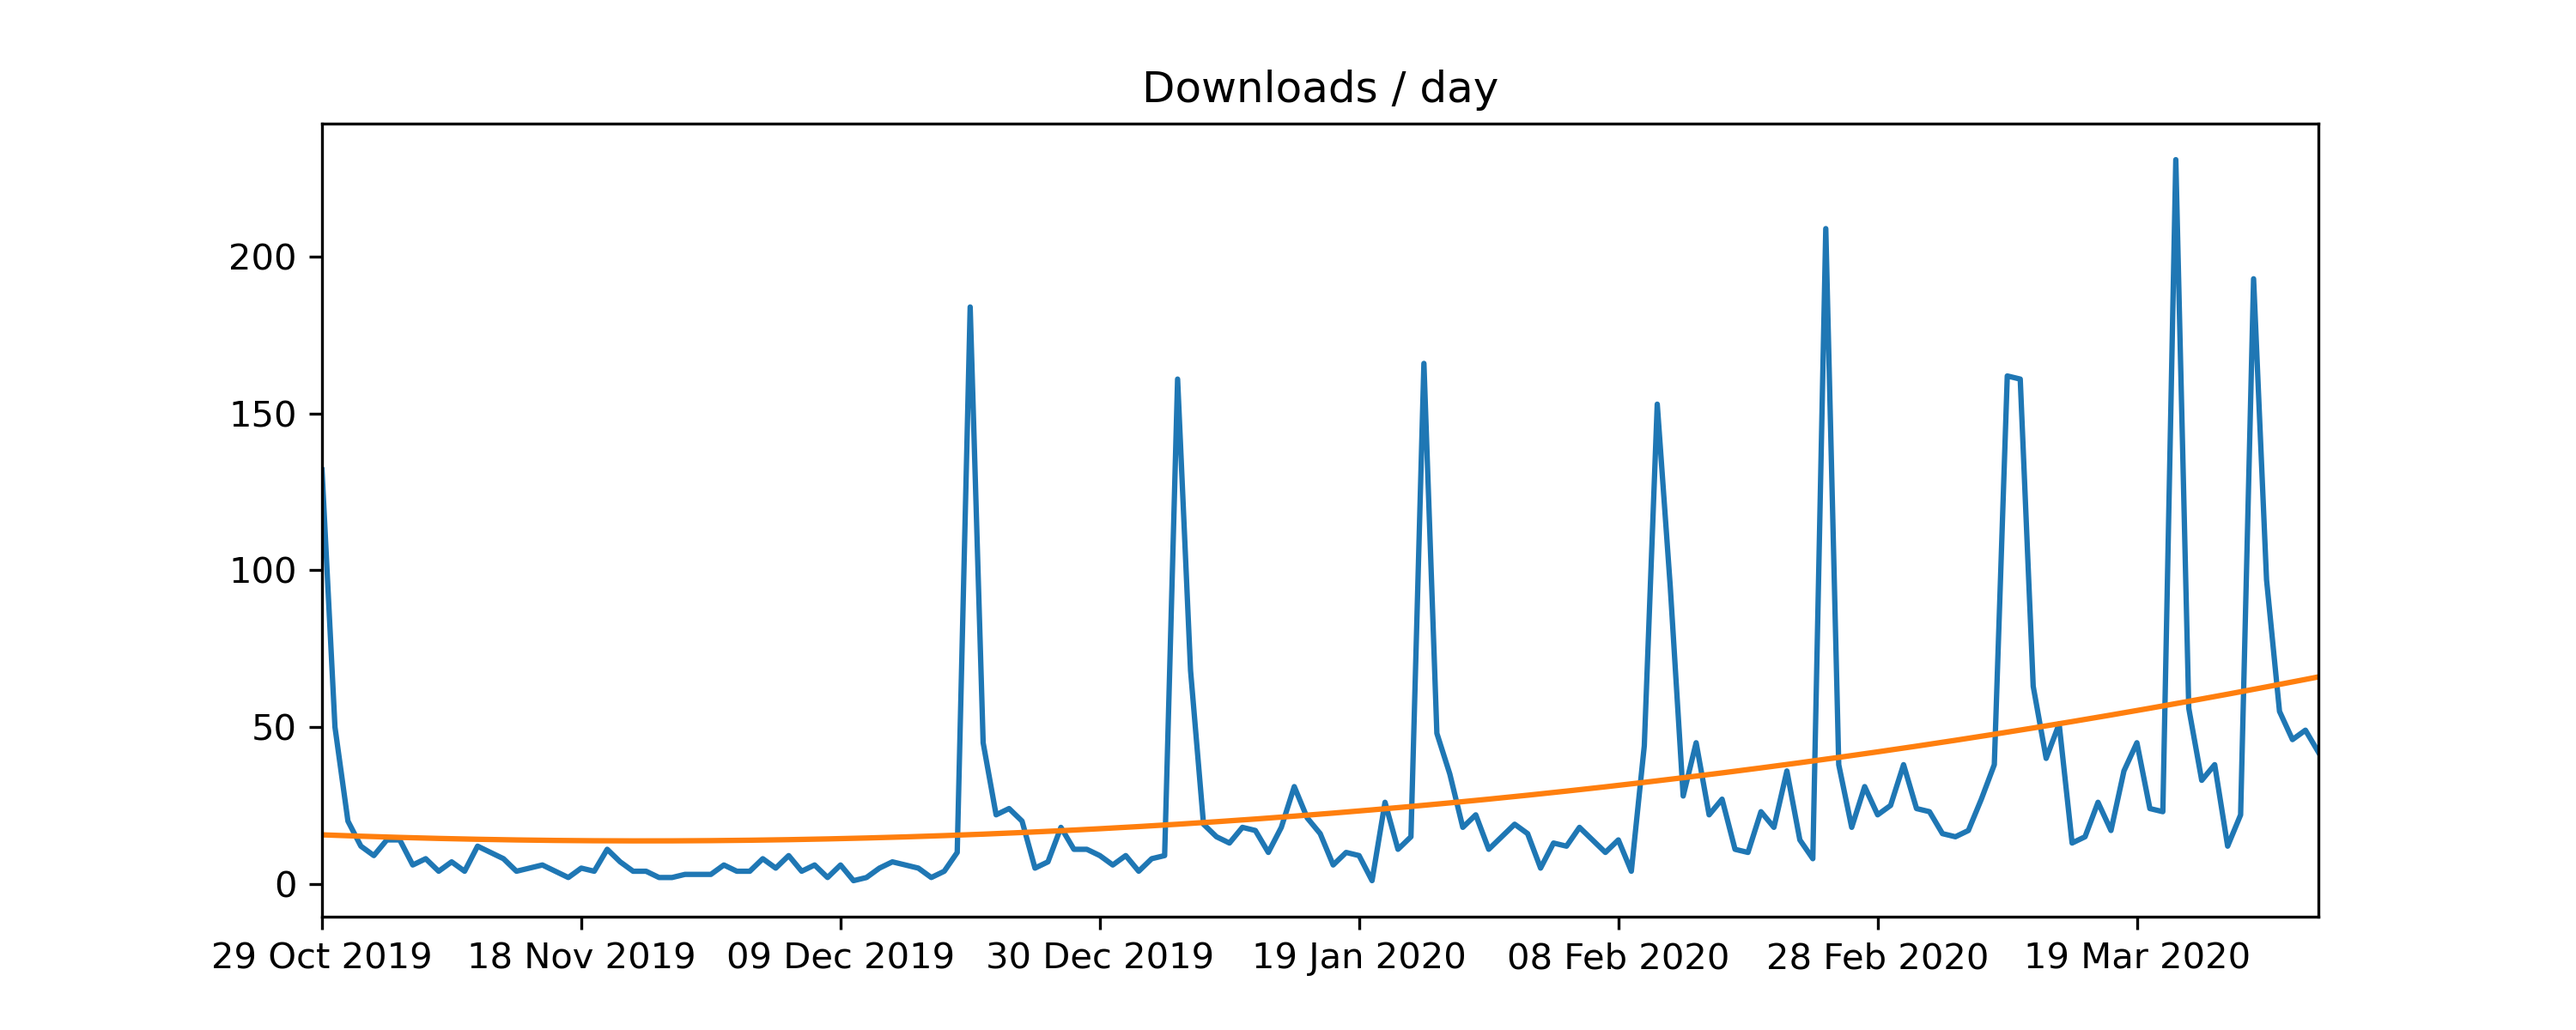
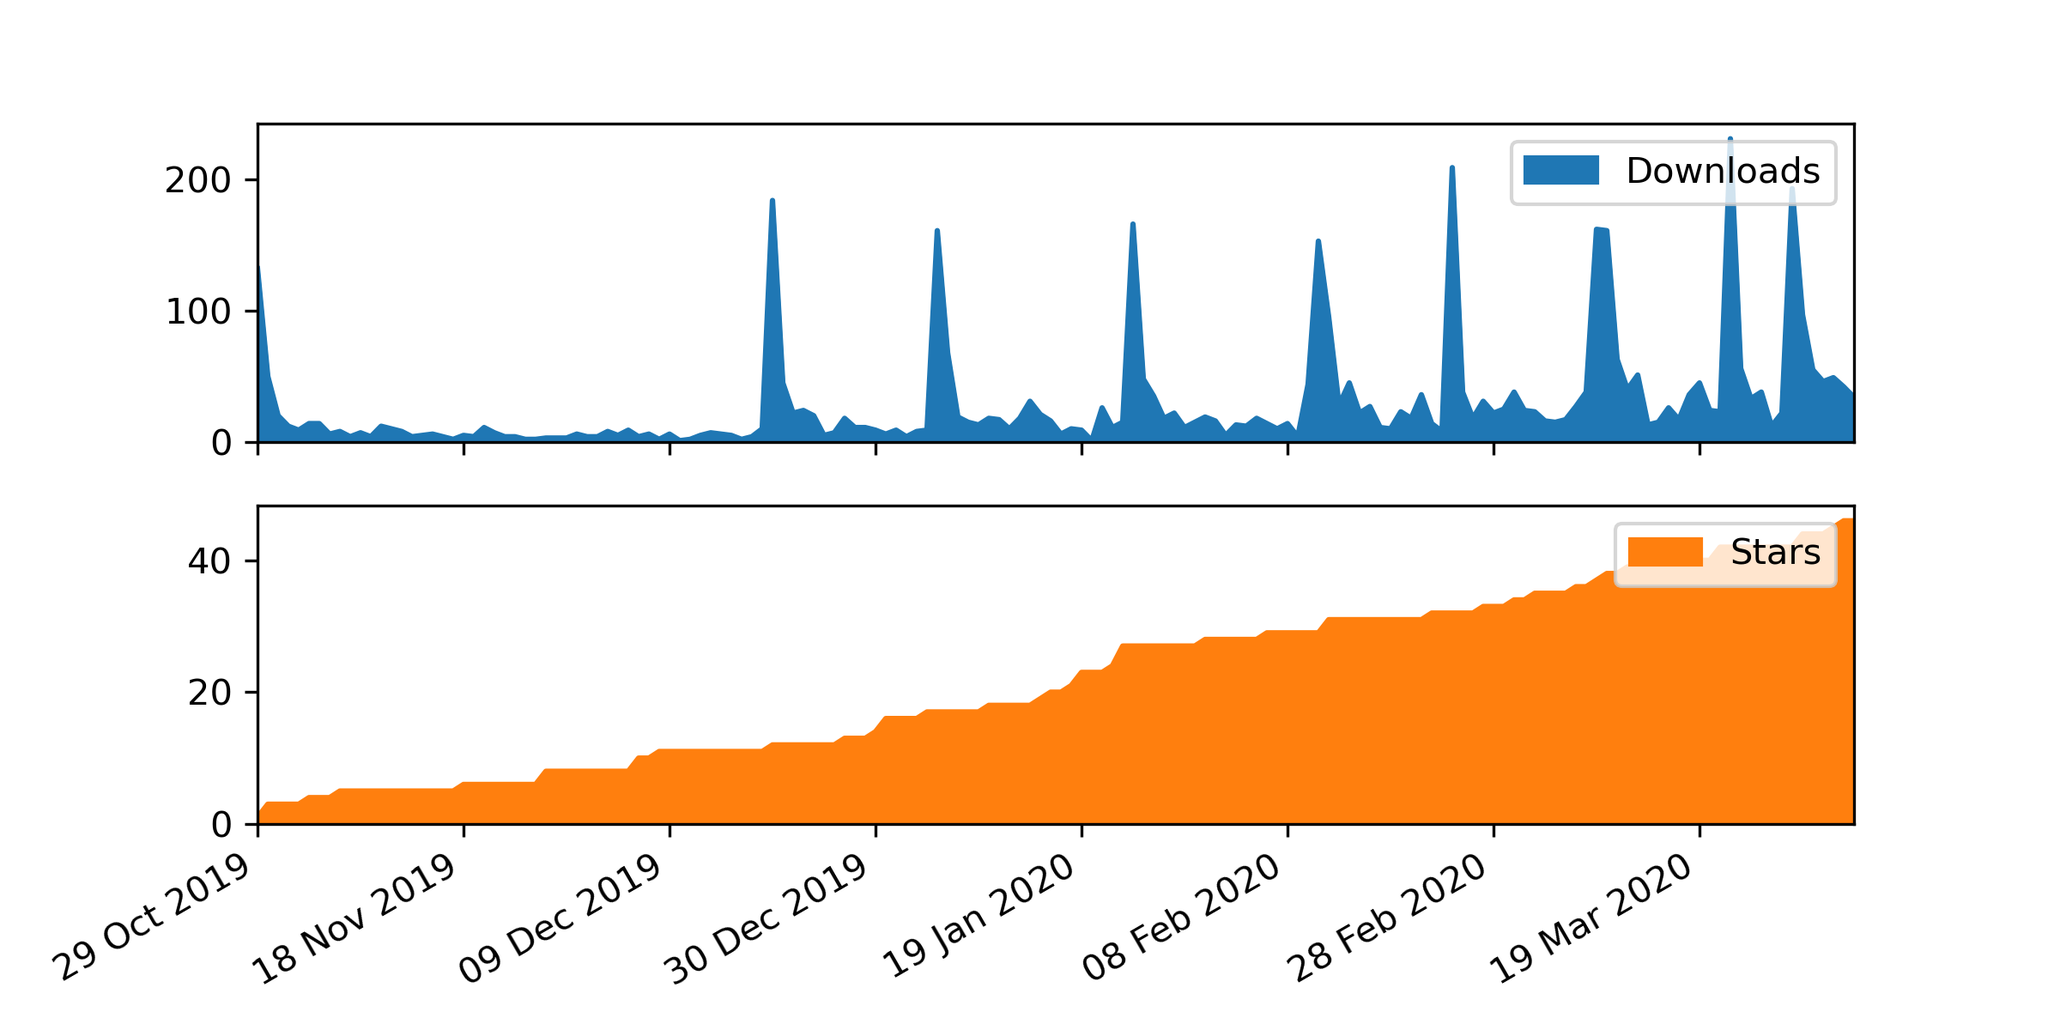
update fig

diff --git a/docs/img/README_examples.py b/docs/img/README_examples.py
@@ -3,9 +3,6 @@ import pandas as pd
 import matplotlib.pyplot as plt
 import neurokit2 as nk
 
-import pypistats
-import datetime
-
 
 
 
@@ -151,58 +148,17 @@ ppg = nk.ppg_simulate(duration=15, sampling_rate=250, heart_rate=70, random_stat
 # =============================================================================
 # Popularity
 # =============================================================================
-# Pypi downloads
-data = pypistats.overall("neurokit2", total=True, format="pandas")
+import popularipy  # https://github.com/DominiqueMakowski/popularipy
 
-# process
-data = data.groupby("date").sum().sort_values("date").reset_index()
-data["Trend"] = nk.fit_polynomial(data["downloads"])
-data["date"] = pd.to_datetime(data["date"]).dt.strftime('%d %b %Y')
+downloads = popularipy.pypi_downloads("neurokit2")
+stars = popularipy.github_stars("neuropsychology/neurokit", "e9c24f9a89e3b015876e797b8c1e97af59ee4c4f")
 
-plot = data.plot(x="date", figsize=(10, 4), title="Downloads / day", legend=False)
-plot.set_xlabel(None)
-plot.figure.savefig("README_popularity.png", dpi=300)
+# Plot
+data = downloads.merge(stars)
+plot = data.plot.area(x="Date", y=["Downloads", "Stars"], subplots=True)
+plot[1].xaxis.label.set_visible(False)
 
-## GH stars
-#"https://seladb.github.io/StarTrack-js/#/preload?r=neuropsychology,neurokit&r=neuropsychology,neurokit.py&r=PIA-Group,BioSPPy&r=Gabrock94,Pysiology&r=Aura-healthcare,hrvanalysis&r=paulvangentcom,heartrate_analysis_python&r=embodied-computation-group,systole"
-#
-#import github
-#
-#gh = github.GitHub(username="DominiqueMakowski", password="something")
-#repo = gh.repos("neuropsychology", "NeuroKit")
-#repo = gh.repos("neuropsychology", "NeuroKit").collaborators("DominiqueMakowski")
-#
-#repo.get()
-#
-#views_14_days = repo.traffic.views.get()
-#
-#gh.repos("neuropsychology", "NeuroKit").collaborators("DominiqueMakowski").get()
-#
-#    try:
-#
-#    except:
-#        sys.exit('Username/org "' + org + '" or repo "' + repo + '" not found in github')
-#
-#    if user is not None and org != user:
-#        try:
-#            gh.repos(org, repo).collaborators(user).get()
-#        except:
-#            sys.exit('Username "' + user + '" does not have collaborator permissions in repo "' + repo + '"')
-#    views_14_days = gh.repos(org, repo).traffic.views.get()
-#    found_new_data = False
-#    for view_per_day in views_14_days['views']:
-#        timestamp = view_per_day['timestamp']
-#        data = { 'uniques': view_per_day['uniques'], 'count': view_per_day['count']}
-#        if db.get(timestamp) is None:
-#            db.set(timestamp, json.dumps(data))
-#            print timestamp, data
-#            found_new_data = True
-#        else:
-#            db_data = json.loads(db.get(timestamp))
-#            if db_data['uniques'] < data['uniques']:
-#                db.set(timestamp, json.dumps(data))
-#                print timestamp, data
-#                found_new_data = True
-#    if not found_new_data:
-#        print 'No new traffic data was found for ' + org + '/' + repo
-#    db.dump()
+fig = plt.gcf()
+fig.set_size_inches(8, 4, forward=True)
+[ax.legend(loc=1) for ax in plt.gcf().axes]
+fig.savefig("README_popularity.png", dpi=300, h_pad=3)

diff --git a/README.rst b/README.rst
@@ -334,9 +334,6 @@ Popularity
 .. image:: https://img.shields.io/github/forks/neuropsychology/NeuroKit   
         :target: https://github.com/neuropsychology/NeuroKit/network
 
-.. image:: https://img.shields.io/twitter/url?style=social   
-        :target: https://twitter.com/intent/tweet?text=Wow:&url=https%3A%2F%2Fgithub.com%2Fneuropsychology%2FNeuroKit
-
 
 .. image:: https://raw.github.com/neuropsychology/NeuroKit/master/docs/img/README_popularity.png
         :target: https://pypi.python.org/pypi/neurokit2
